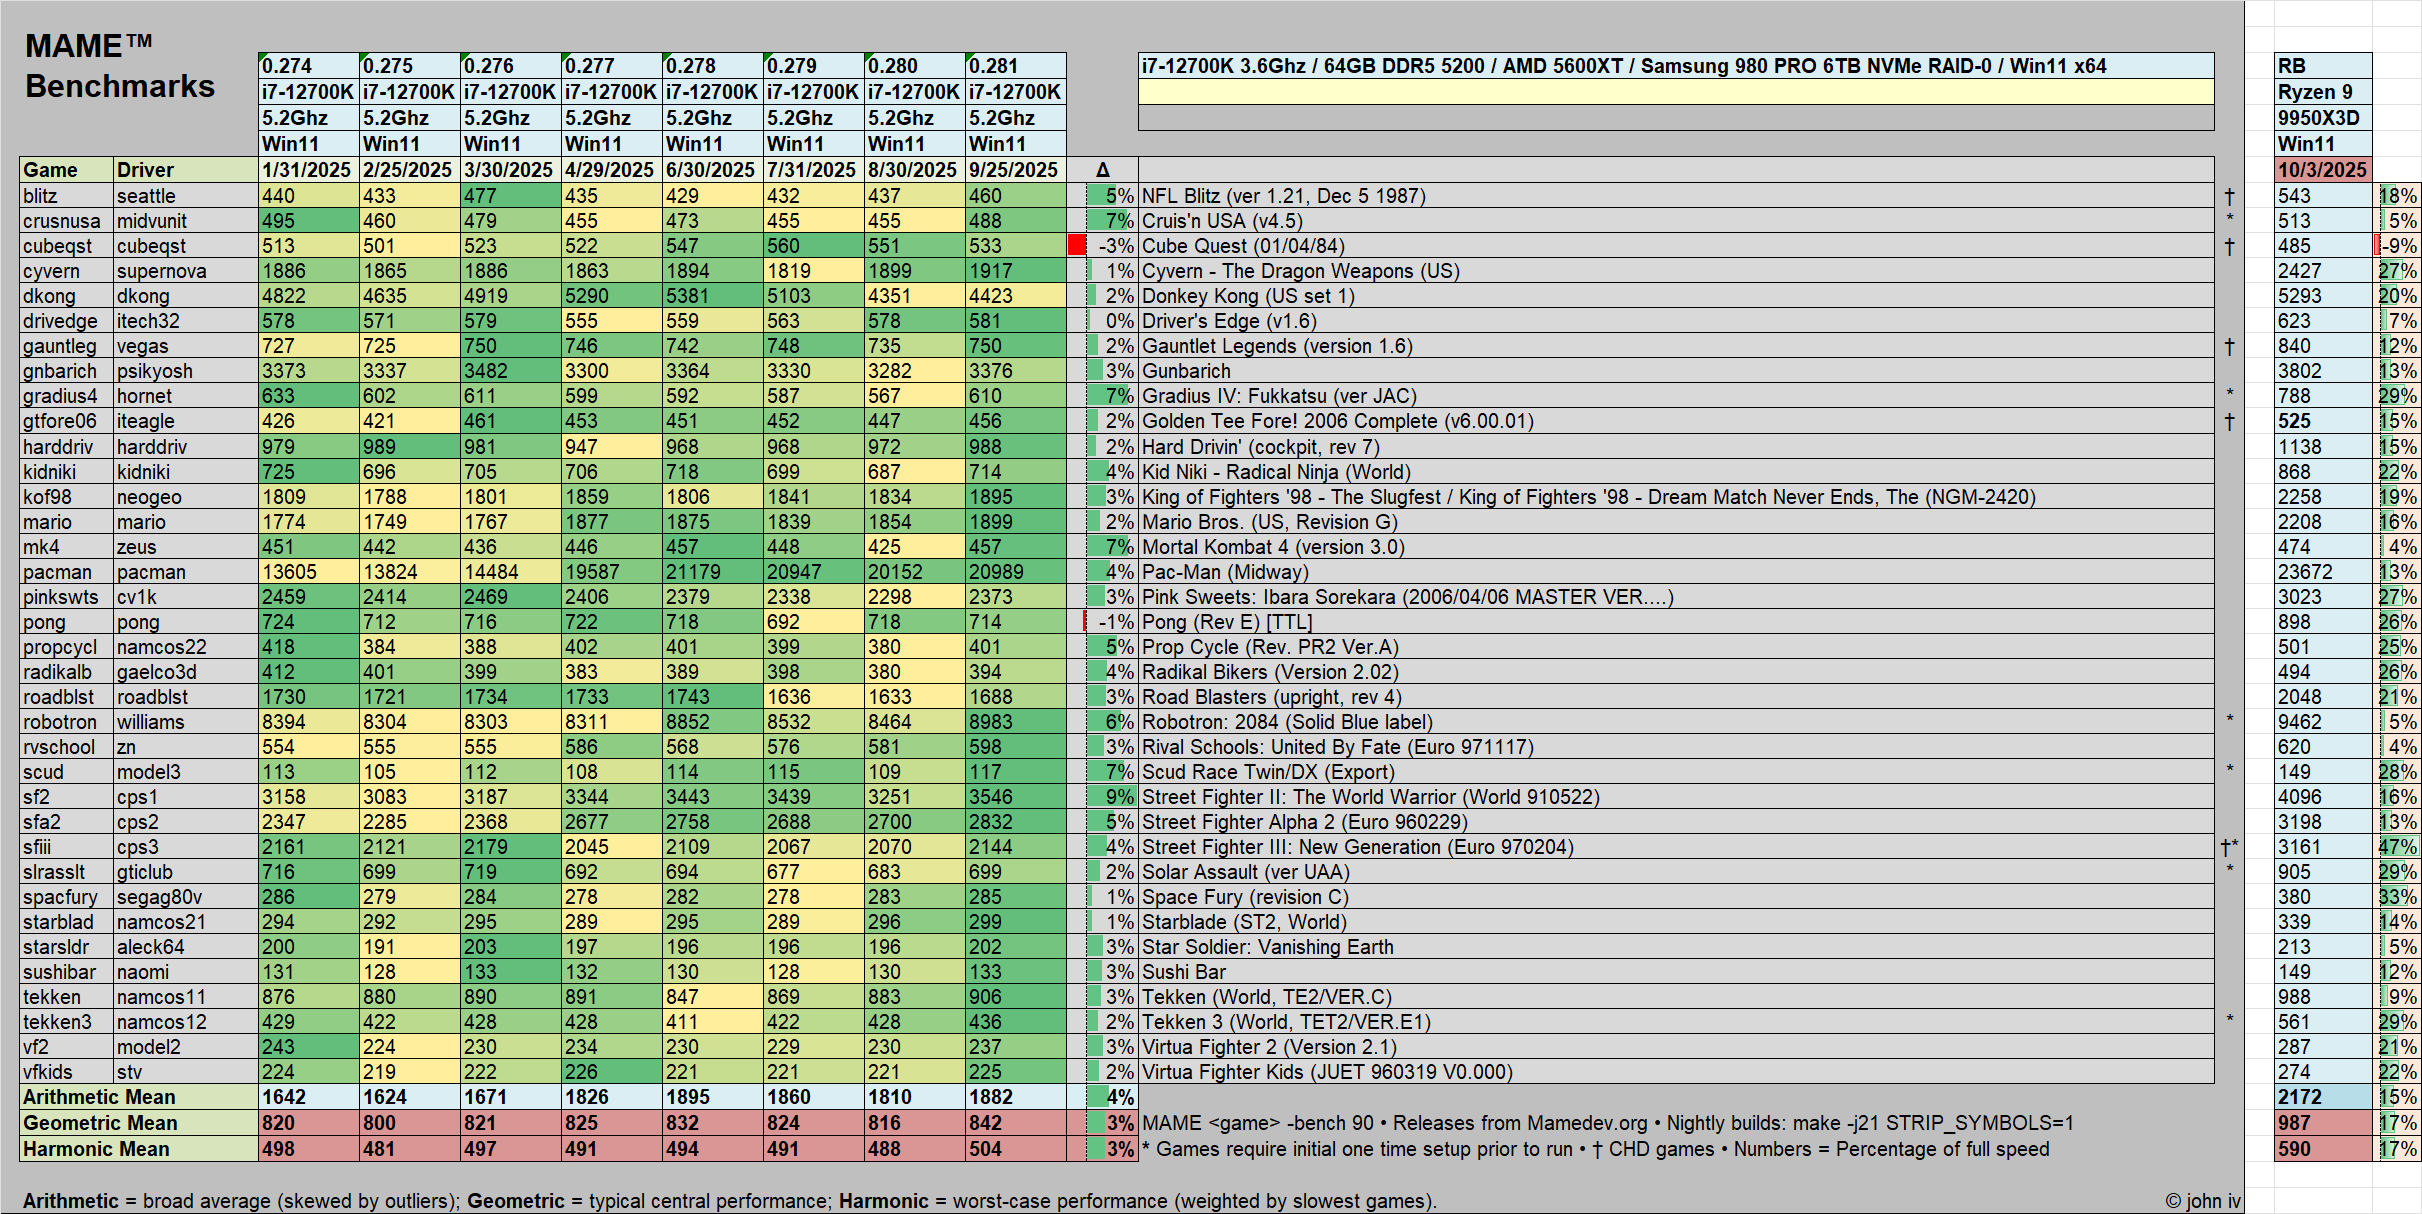
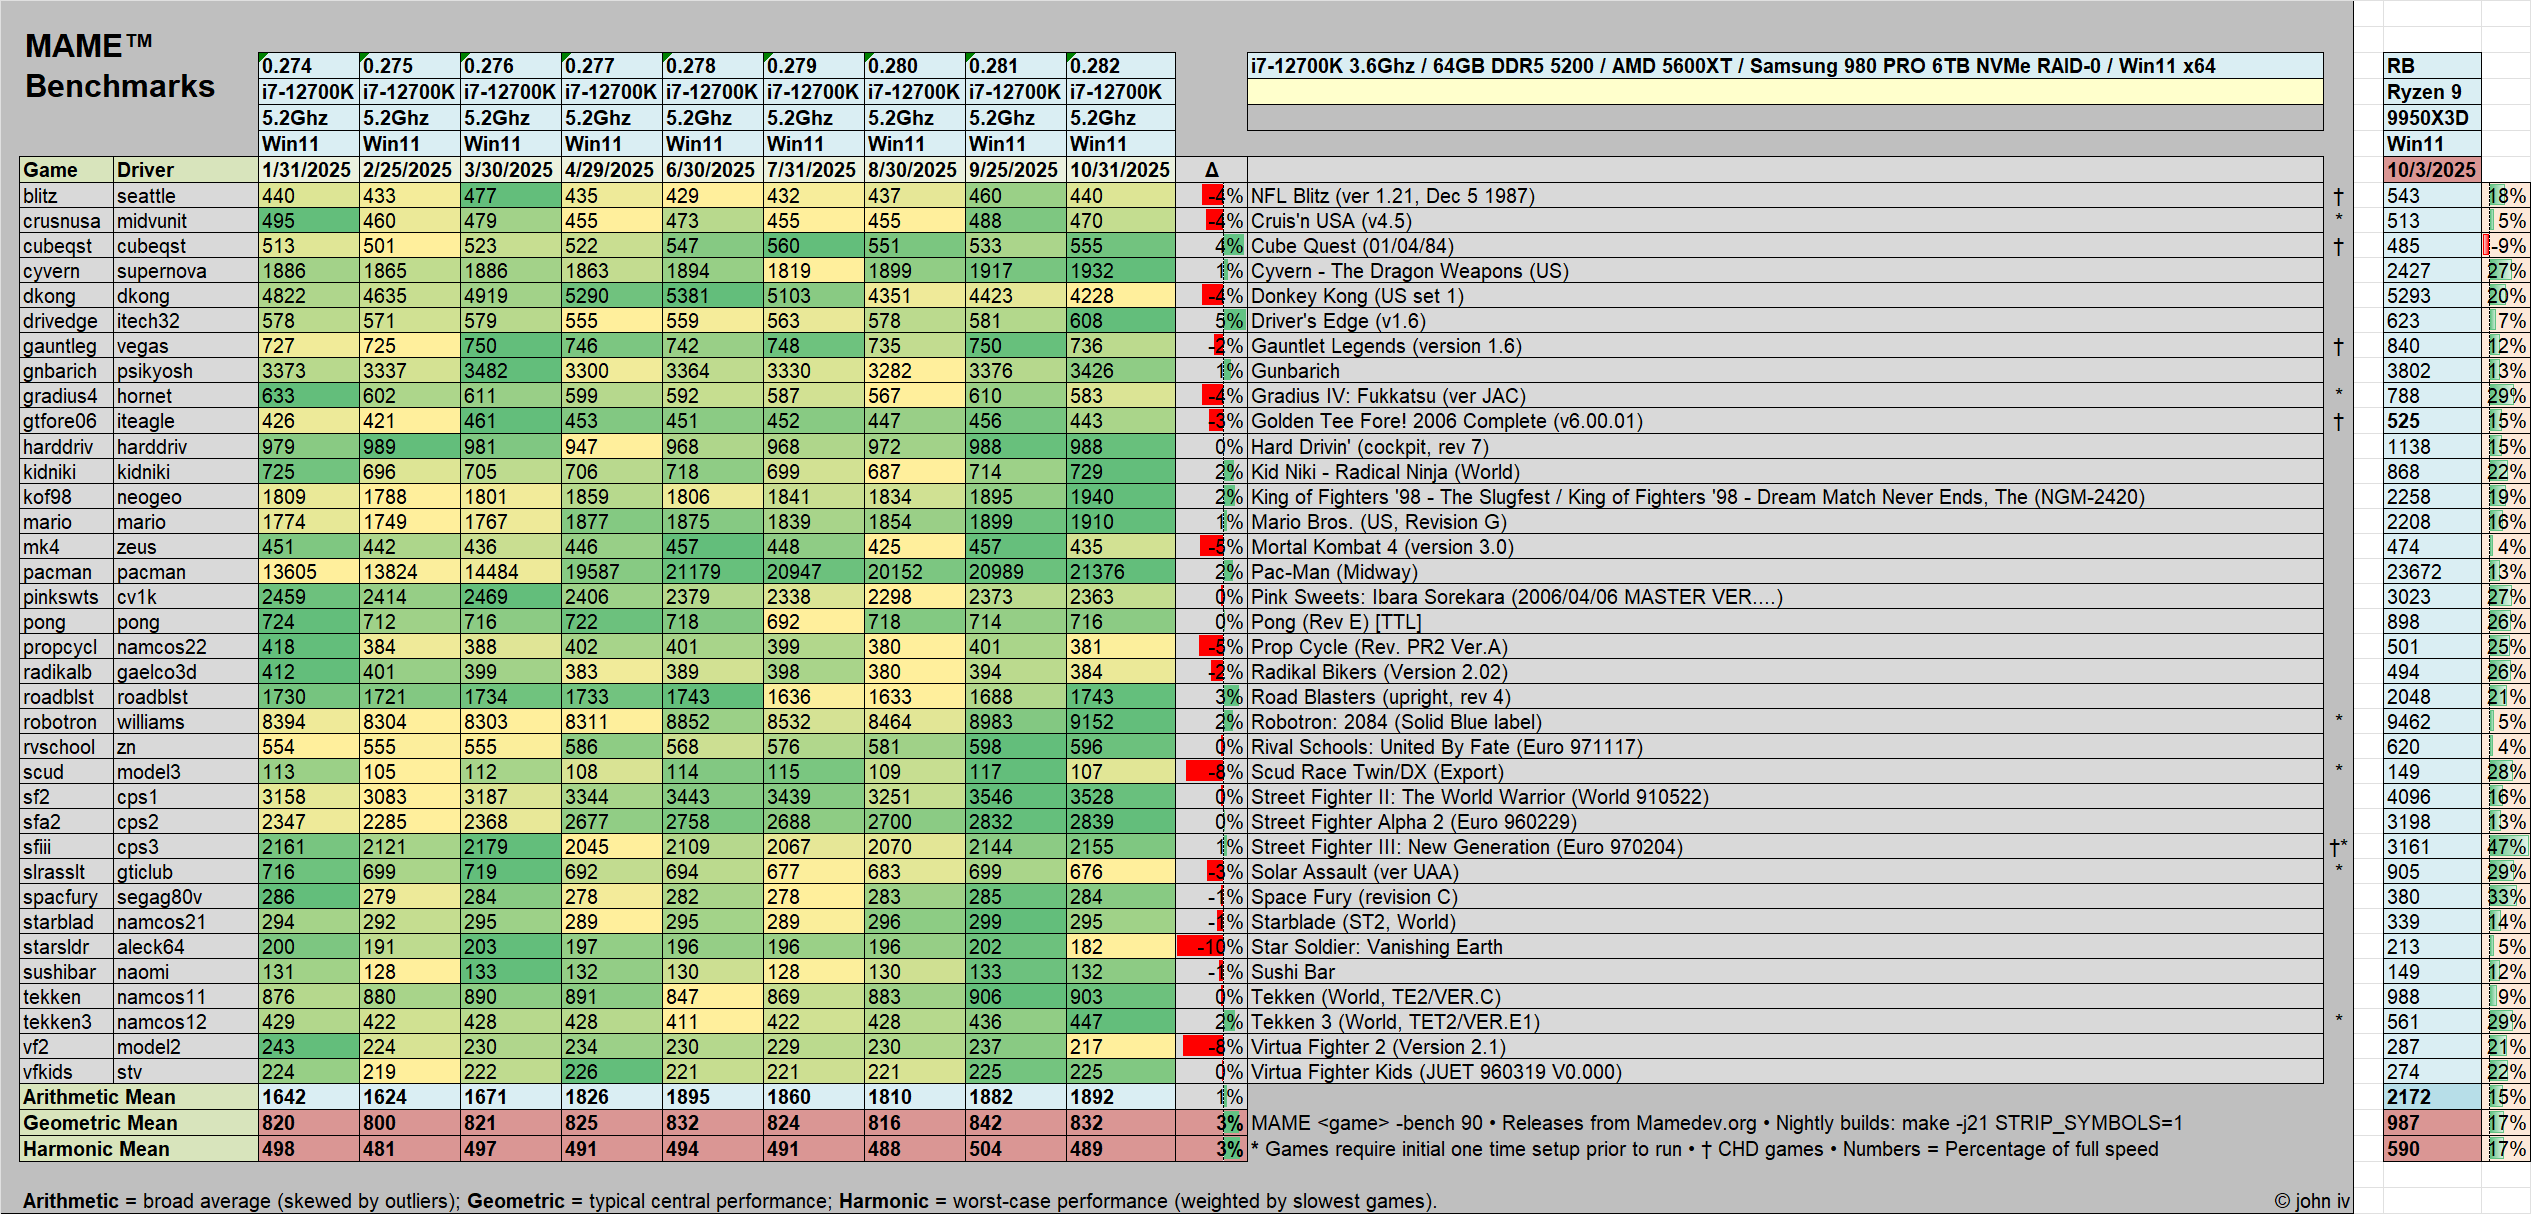
Add files via upload

Changed region(s): [[0.0, 0.0305, 0.8671, 1.0], [0.898, 0.0305, 1.0, 0.9753], [0.898, 0.9753, 0.929, 1.0]]

diff --git a/index.html b/index.html
@@ -22,7 +22,7 @@
         "name": "John IV"
       },
       "downloadUrl": "https://github.com/john-iv/iv-play/releases/download/Latest/IV-Play.7z",
-      "softwareVersion": "2.2.2",
+      "softwareVersion": "2.3.0",
       "keywords": "MAME, Official, IV/Play, benchmarking, MAMEUI, MAME32, MAME32QA, MAMEUI.INFO, icons, snaps, beautiful, snapshots, John IV"
     }
     </script>
@@ -181,20 +181,18 @@ Browse, filter, and launch thousands of titles with fluid responsiveness on mode
   <a href="https://github.com/john-iv/iv-play/releases/download/Latest/IV-Play.7z"
      onclick="gtag('event', 'download', {
        'event_category': 'Downloads',
-       'event_label': 'IV-Play 2.2.2 7z'
+       'event_label': 'IV-Play 2.3.0 7z'
      });"
      class="tooltip">
-     IV/Play 2.2.2 (.7z) (10/18/2025)
+     IV/Play 2.3.0 (.7z) (10/31/2025)
      <span class="tooltiptext">
-       <strong>Version 2.2.2 (10/18/2025)</strong><br>
-       • Move Scrollbar to Right Side<br>
-       • Version Info on Titlebar<br>
-       • Filter Enhancements and Examples<br>
-       • Scrollbar fixes and thumb color to F1<br>
-       • Tilde DAT Peek Key Customizable<br>
-       • Grid View + Art None Added to TAB<br>
-       • F10 BVT Built Out<br>
-       • Misc. Bug Fixes 10/18<br>
+       <strong>Version 2.3.0 (10/31/2025)</strong><br>
+       • Legacy ROM Error Messaging<br>
+       • BigBench Benchmark Script<br>
+       • Dynamic Color Themes<br>
+       • Expanded Key Customization<br>
+       • Favorites.ini Audit<br>
+       • Random Dynamic Theme on Startup<br>
        • See User Guide for Full ChangeLog
      </span>
   </a>
@@ -231,7 +229,7 @@ Browse, filter, and launch thousands of titles with fluid responsiveness on mode
   </li>
 
   <li class="highlight">
-    Art assets updated to MAME 0.281 as of 8:40 PM 09/26/2025
+    Art assets updated to MAME 0.282 as of 8:40 PM 09/26/2025
   </li>
 </ul>
 
